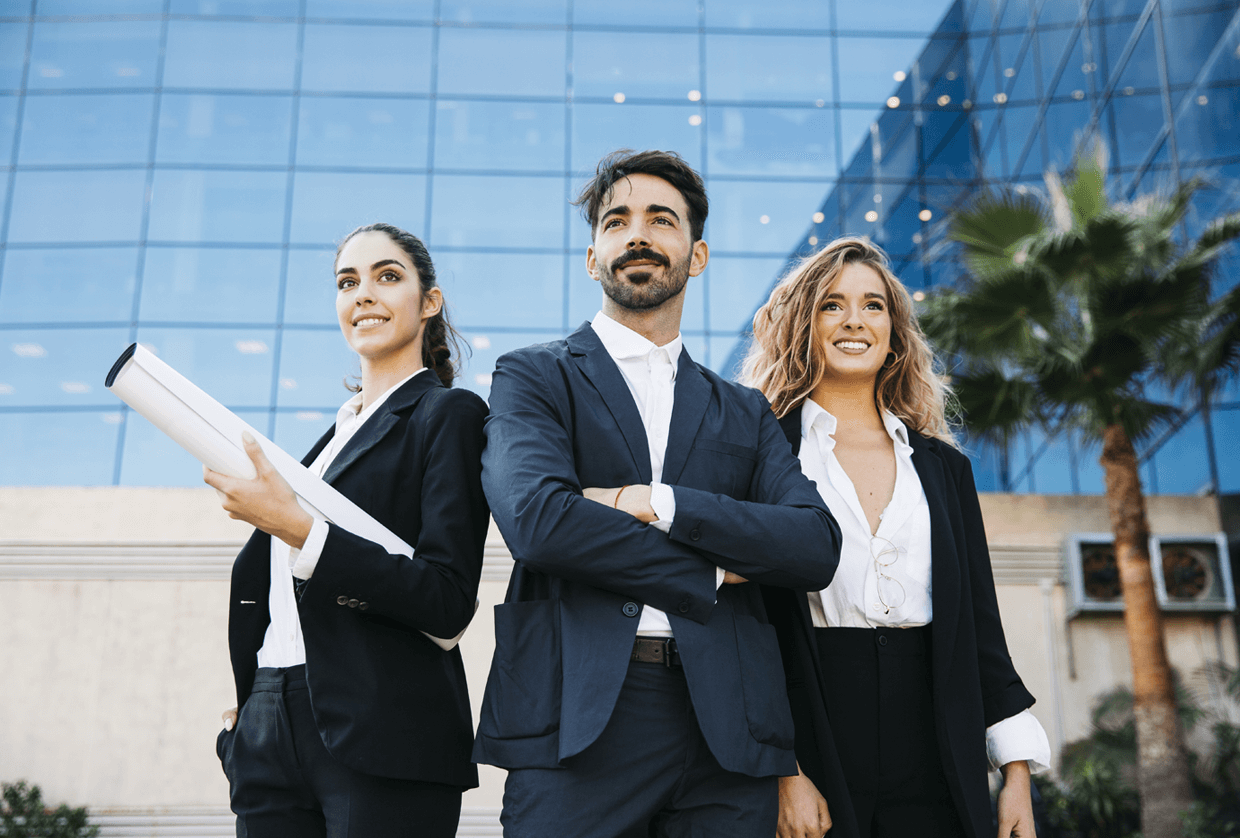
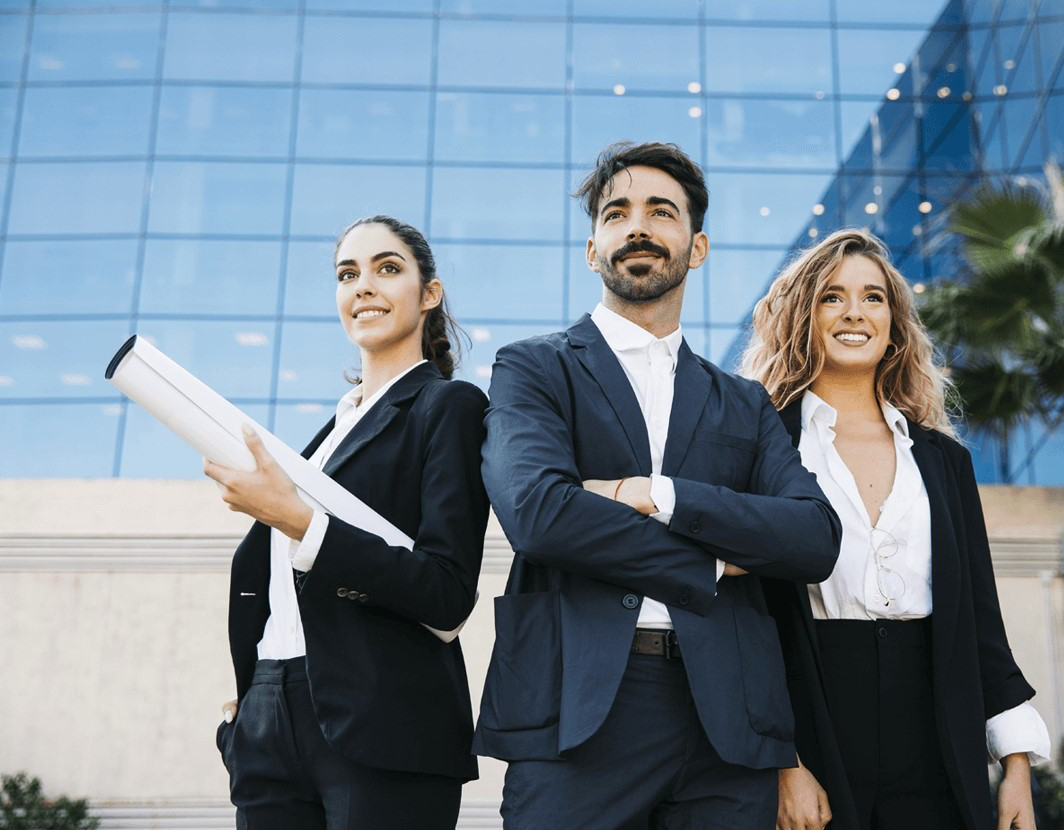
bize ulasin kismindaki resim degisti

diff --git a/hukuki/src/app/contact/contact.component.css b/hukuki/src/app/contact/contact.component.css
@@ -737,7 +737,7 @@ Quote Form
 	position: relative;
 }
 .contact-right {
-	background-image: url('../../assets/img/contact.png');
+	background-image: url('../../assets/img/services-5.png');
 	background-size: cover;
 	background-repeat: no-repeat;
 	background-position: right center;
